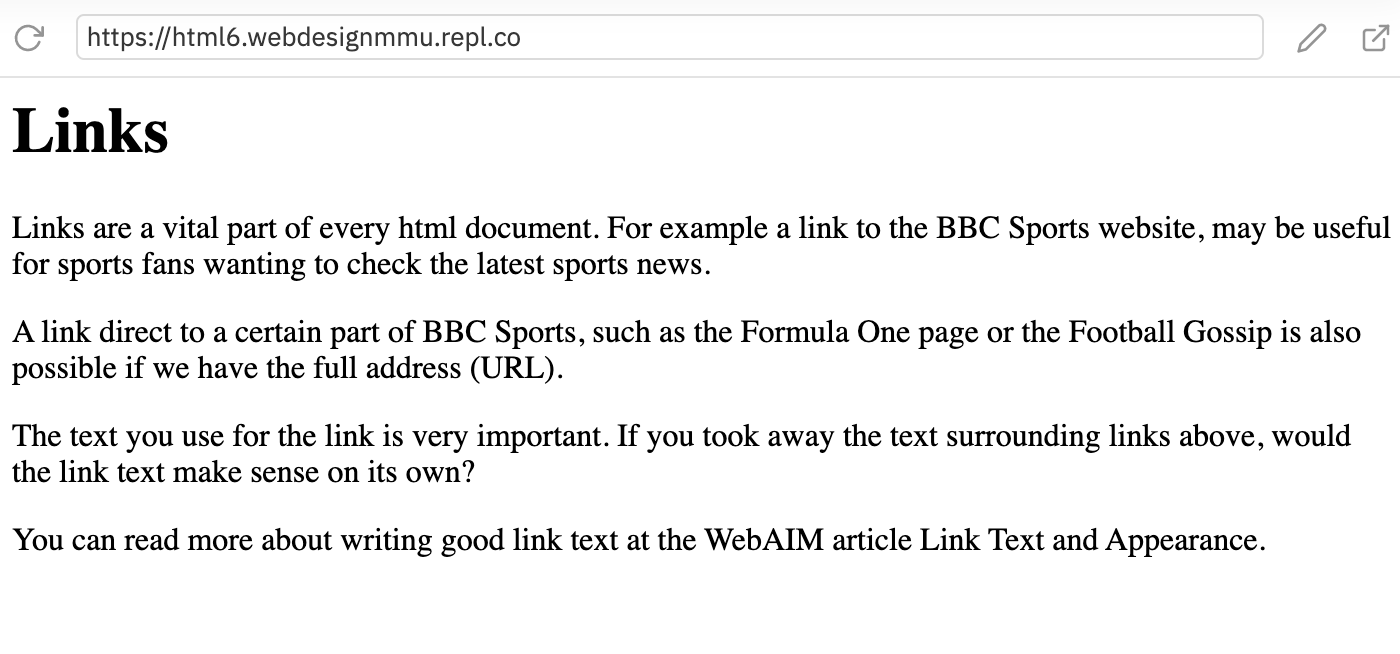
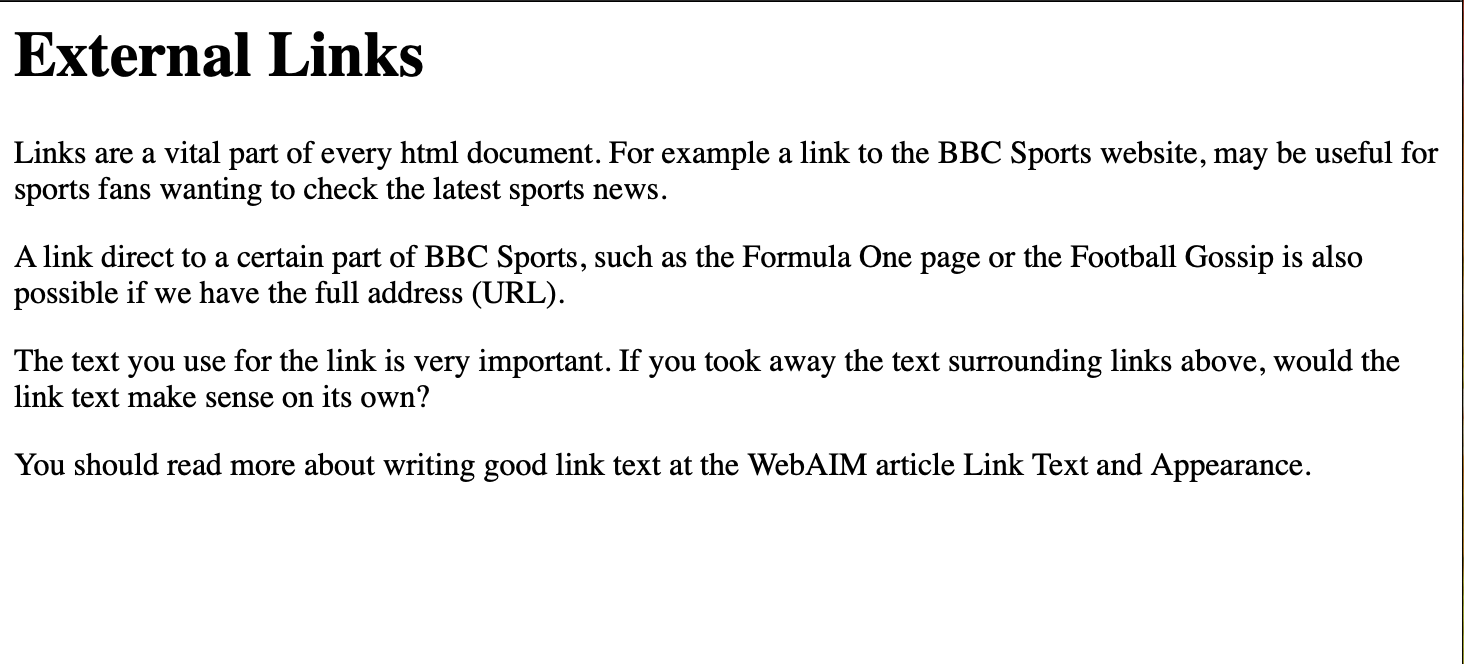
6 done

diff --git a/HTML/html01/07-links.md b/HTML/html01/07-links.md
@@ -57,7 +57,9 @@ As mentioned before, you can turn just about any content into a link, even block
 
 ```
 <a href="https://www.mozilla.org/en-US/">
+
   <img src="mozilla-image.png" alt="mozilla logo that links to the mozilla homepage">
+
 </a>
 ```
 
@@ -83,21 +85,25 @@ As mentioned before, you can turn just about any content into a link, even block
 
 <!-- div class="exercise" -->
 
-## Exercise - Assessment 6
+## Exercise 6
 
 Coding external links
 
 ### Task 1
 
-> Open your **Assessment 6** Repl.it
+> Open the `html6` folder.
+
+- Open `exercise-06.html`in your editor.
+
+- Open `exercise-06.html`in your browser.
 
 ### Task 2
 
 - Before we start creating links, the page needs to be structured with a `<h1>` heading and `<p>` paragraphs.
 
-- Apply the code and Run in the browser window
+- Apply the code and save the file. 
 
-- The page should now look like this:
+- Refresh the browser to view `exercise-06.html`. The page should now look like this:
 
 <img src="media/links-with-structure.png" alt="Links page coded with heading and paragraphs">
 
@@ -106,8 +112,10 @@ Coding external links
 
 > Adding links to the page - each of these links lead off our webpage, to someone elses website.
 
-- BBC Sports - `https://www.bbc.co.uk/sport`
-- So for example this lik would include:
+
+- A link to BBC Sports homepage.
+
+- So for example this link would include:
 
 ```
 <a href="https://www.bbc.co.uk/sport">BBC Sports</a>
@@ -116,7 +124,9 @@ Coding external links
 
 ```
 <a href="https://www.bbc.co.uk/sport">
+
 BBC Sports
+
 </a>
 ```
 This includes:
@@ -130,22 +140,21 @@ This includes:
 
 Read this through a few times so that you really understand the stucture of the `anchor` element. The `<a>` wraps around the link text.
 
-- Code your link, Run and test that it works.
+- Find BBC Sports in the first paragraph of `exercise-06.html`.
 
-<h3 class="warning">How to test you links</h3>
+- Wrap the `<a>` element around the text as shown to create a hyper link to `"https://www.bbc.co.uk/sport"`.
 
-- The `Repl.it` browser can show your `links`, but they won't work
+- Save `exercise-06.html`.
 
-- To test your links you will need to open the page in a new browser tab. To do this:
+- Refresh in the browser to view and test the link. 
 
 <figure>
 <img src="media/view-in-browser.png" alt="Illustration of the button to select">
 <figcaption>
-Select the button highlighted in red. This will open your page in another browser tab. Your links will now work - if coded correctly.
+You should have a link on your page as shown. Select the link - does it go to BBC Sport as expected?
 </figcaption>
 </figure>
 
-- Close that browser tab once you've checked your links.
 
 ### Task 4 - Just read this
 
@@ -165,26 +174,33 @@ Select the button highlighted in red. This will open your page in another browse
 
 > It will be up to you as the coder, but remember:
 
-1. A good target size
+1. A good target size.
 
-1. but not over large - don't link the whole sentence
+1. But not over large - don't link the whole sentence.
 
-1. Works/makes sense out of context
+1. Works/makes sense out of context.
 
 ### Task 5
 
-> Add two more links to BBC Sports in the next two paragraphs
+- Return to `exercise-06.html` in your editor.
+
+- Add two more links to BBC Sports in the next two paragraphs.
 
 - Find the text **Formula One** and turn it into a link using - `https://www.bbc.co.uk/sport/formula1`
 
 - Find the text **Football Gossip** and turn it into a link using - `https://www.bbc.co.uk/sport/football/gossip`
 
+- Save `exercise-06.html`, refresh the page in your browser.
+
 ### Task 6
 
-> Add the final link which is to a WebAIM article that provides more information on best practices for link text.
+- Add the final link to `exercise-06.html` 
+
+- Create a link to this WebAIM article that provides more information on best practices for link text.
 
 - Find the text **Link Text and Appearance** and turn it into a link using - `https://webaim.org/techniques/hypertext/link_text`
 
+- Save `exercise-06.html`, refresh the page in your browser.
 
 ### Solution
 
@@ -200,7 +216,7 @@ You completed page should like like this, with the links blue (mine are purple b
 <!-- end div -->
 
 
-<p class="submit-work">Submit Assessment 6</p>
+<p class="submit-work">Exercise 6 complete</p>
 
 
 <h2 class="deep">Deeper Learning</h2>
